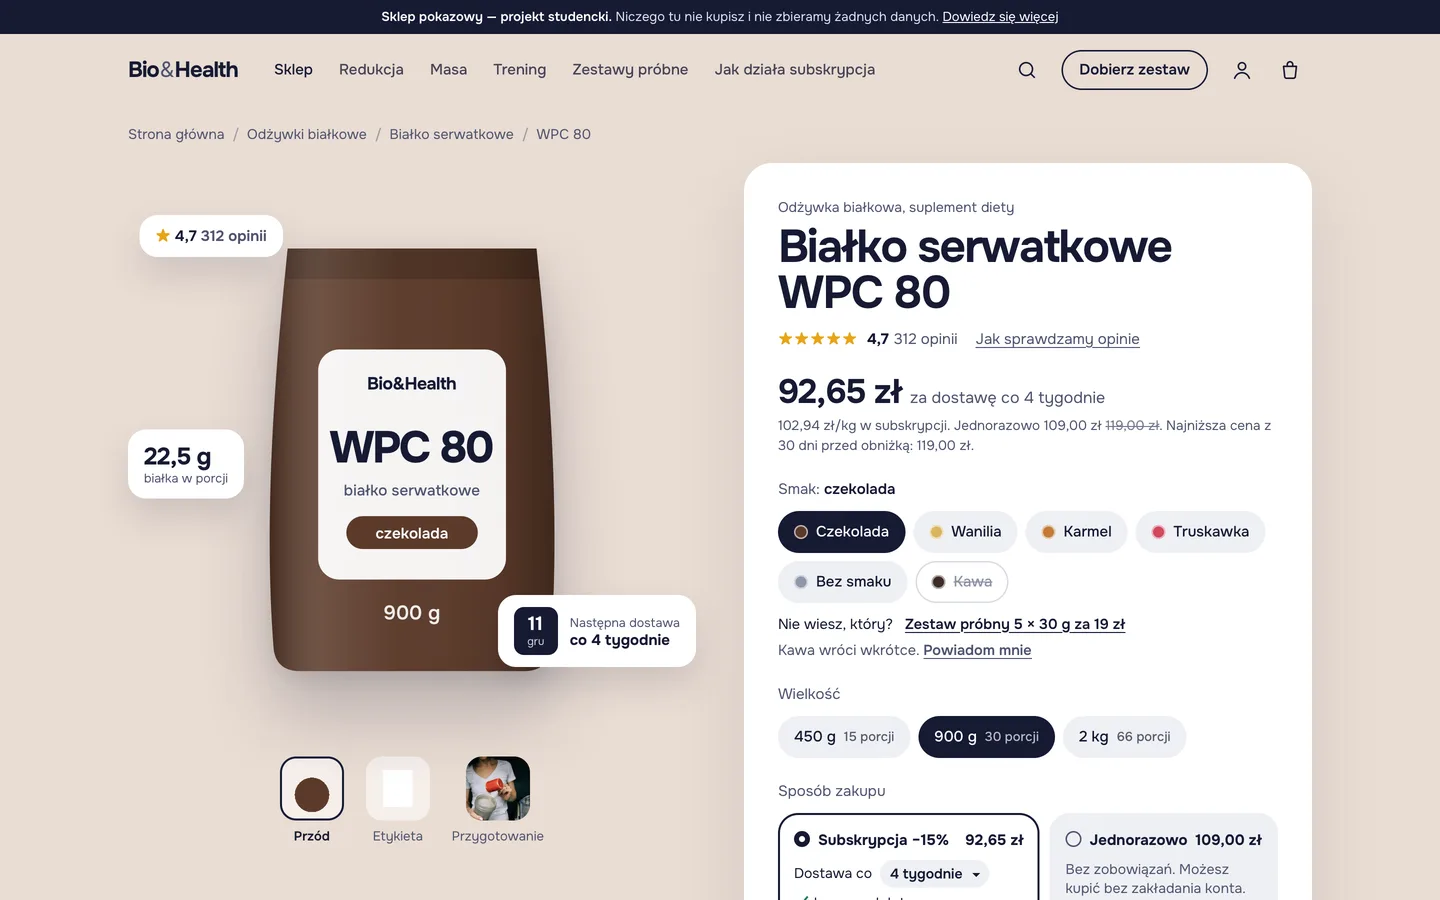
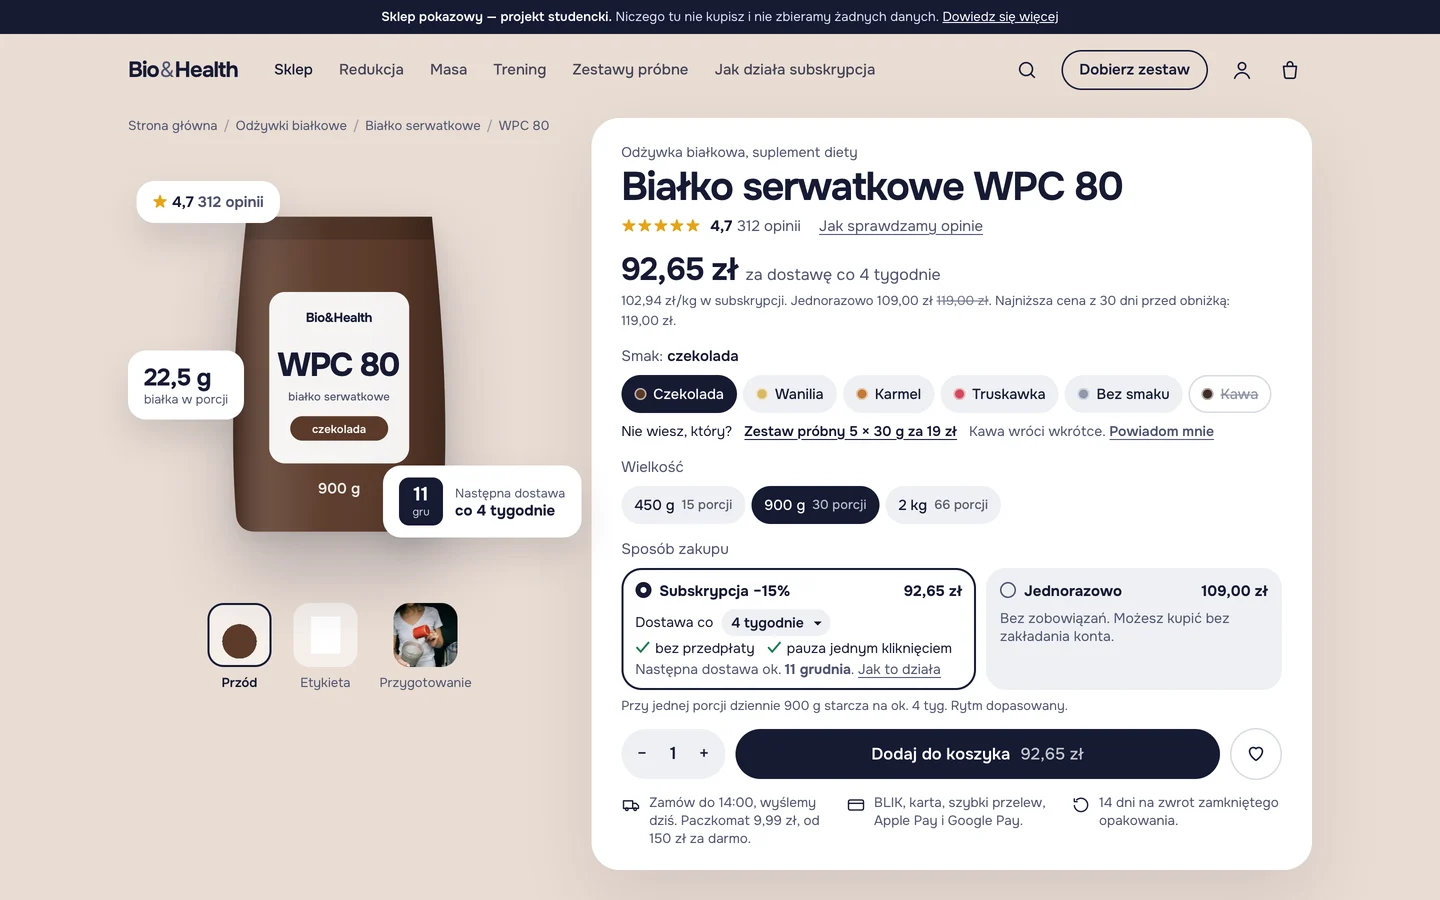
Prezentacja: makieta hi-fi i zrzuty z nowego układu strony
- Nowy zrzut pierwszego ekranu (1440 × 870, wszystko do przycisku
  i dostawa/płatność/zwroty) i dopasowana do niego siatka lo-fi,
  więc przejście lo-fi → hi-fi dalej trafia pole w pole.
- Nowe zrzuty smaków, koszyka, telefonu i sekcji subskrypcji
  (z przesuniętymi obrysami), nowa miniatura lo-fi na tytule.

diff --git a/src/prezentacja.js b/src/prezentacja.js
@@ -10,58 +10,58 @@ const druk = parametry.has('druk');
 const bezRuchu = druk || window.matchMedia('(prefers-reduced-motion: reduce)').matches;
 if (druk) document.documentElement.classList.add('druk');
 
-/* ---------- makieta lo-fi (siatka 1440 × 1240 px, jak pierwszy ekran strony) ---------- */
+/* ---------- makieta lo-fi (siatka 1440 × 870 px = pierwszy ekran strony na laptopie) ---------- */
 // [x, y, szerokość, wysokość, rodzaj, podpis, dodatkowa klasa]
 const LOFI = [
   [0, 0, 1440, 34, 'pasek', 'Pasek informacyjny'],
-  [128, 50, 112, 38, 'ramka', 'Logo'],
-  [274, 56, 602, 26, 'tekst', 'Menu według celu: redukcja, masa, trening, zestawy próbne, subskrypcja'],
+  [128, 53, 110, 34, 'ramka', 'Logo'],
+  [274, 57, 601, 26, 'tekst', 'Menu według celu: redukcja, masa, trening, zestawy próbne, subskrypcja'],
   [1014, 57, 26, 26, 'ikona', ''],
-  [1062, 50, 146, 40, 'pigulka', 'Dobierz zestaw'],
+  [1061, 50, 147, 40, 'pigulka', 'Dobierz zestaw'],
   [1229, 57, 26, 26, 'ikona', ''],
   [1277, 57, 26, 26, 'ikona', ''],
-  [128, 124, 463, 20, 'tekst', 'Ścieżka: strona główna / kategoria / produkt'],
-  [270, 248, 286, 422, 'zdjecie', 'Zdjęcie produktu'],
-  [140, 215, 143, 42, 'plakietka', 'Ocena'],
-  [128, 430, 116, 68, 'plakietka', 'Białko w porcji'],
-  [498, 596, 198, 70, 'plakietka', 'Najbliższa dostawa'],
-  [280, 756, 64, 64, 'zdjecie', ''],
-  [366, 756, 64, 64, 'zdjecie', ''],
-  [466, 756, 64, 64, 'zdjecie', ''],
-  [744, 163, 568, 1077, 'panel', ''],
-  [778, 198, 236, 20, 'tekst', 'Kategoria produktu'],
-  [778, 226, 394, 90, 'naglowek', 'Nazwa produktu'],
-  [778, 329, 180, 20, 'tekst', 'Ocena, opinie'],
-  [976, 329, 164, 20, 'link', 'Jak sprawdzamy'],
-  [778, 370, 124, 44, 'cena', 'Cena'],
-  [910, 386, 196, 22, 'tekst', 'za dostawę co X tyg.'],
-  [778, 418, 494, 34, 'tekst', 'Cena za kg, jednorazowa, najniższa z 30 dni'],
-  [778, 480, 120, 20, 'tekst', 'Smak'],
-  [778, 511, 127, 42, 'pigulka', 'Smak 1', 'wybrany'],
-  [913, 511, 104, 42, 'pigulka', 'Smak 2'],
-  [1026, 511, 101, 42, 'pigulka', 'Smak 3'],
-  [1136, 511, 129, 42, 'pigulka', 'Smak 4'],
-  [778, 561, 129, 42, 'pigulka', 'Smak 5'],
-  [916, 561, 92, 42, 'pigulka', 'Smak 6', 'brak'],
-  [778, 614, 350, 22, 'link', 'Zestaw próbny'],
-  [778, 640, 254, 20, 'tekst', 'Powiadom o smaku'],
-  [778, 684, 84, 20, 'tekst', 'Wielkość'],
-  [778, 716, 132, 42, 'pigulka', 'Wariant 1'],
-  [918, 716, 136, 42, 'pigulka', 'Wariant 2', 'wybrany'],
-  [1063, 716, 123, 42, 'pigulka', 'Wariant 3'],
-  [778, 780, 126, 20, 'tekst', 'Sposób zakupu'],
-  [778, 813, 262, 180, 'karta', 'Subskrypcja: rabat i cena\nDostawa co [rytm]\n✓ bez przedpłaty\n✓ pauza\nNastępna dostawa: data', 'wybrany'],
-  [1049, 813, 229, 180, 'karta', 'Jednorazowo: cena\nBez zobowiązań'],
-  [778, 1002, 464, 20, 'tekst', 'Podpowiedź: na ile starcza opakowanie'],
-  [778, 1043, 103, 52, 'pigulka', '−  ilość  +'],
-  [892, 1043, 323, 52, 'przycisk', 'Dodaj do koszyka: kwota'],
-  [1226, 1043, 52, 52, 'ikona', '♡'],
-  [778, 1116, 460, 40, 'tekst', 'Dostawa: kiedy wyślemy i ile kosztuje'],
-  [778, 1170, 380, 22, 'tekst', 'Płatności: BLIK, karta, przelew'],
-  [778, 1202, 320, 22, 'tekst', 'Zwroty: 14 dni'],
+  [128, 116, 423, 20, 'tekst', 'Ścieżka: strona główna / kategoria / produkt'],
+  [235, 214, 212, 318, 'zdjecie', 'Zdjęcie produktu'],
+  [136, 181, 143, 43, 'plakietka', 'Ocena'],
+  [128, 351, 116, 70, 'plakietka', 'Białko w porcji'],
+  [383, 466, 198, 72, 'plakietka', 'Najbliższa dostawa'],
+  [208, 603, 64, 64, 'zdjecie', ''],
+  [294, 603, 64, 64, 'zdjecie', ''],
+  [394, 603, 64, 64, 'zdjecie', ''],
+  [591, 118, 721, 752, 'panel', ''],
+  [621, 142, 260, 22, 'tekst', 'Kategoria produktu'],
+  [621, 168, 500, 41, 'naglowek', 'Nazwa produktu'],
+  [621, 217, 180, 23, 'tekst', 'Ocena, opinie'],
+  [819, 217, 164, 23, 'link', 'Jak sprawdzamy'],
+  [621, 251, 116, 41, 'cena', 'Cena'],
+  [746, 266, 195, 21, 'tekst', 'za dostawę co X tyg.'],
+  [621, 293, 661, 40, 'tekst', 'Cena za kg, jednorazowa, najniższa z 30 dni'],
+  [621, 347, 118, 23, 'tekst', 'Smak'],
+  [621, 378, 116, 38, 'pigulka', 'Smak 1', 'wybrany'],
+  [743, 378, 94, 38, 'pigulka', 'Smak 2'],
+  [843, 378, 91, 38, 'pigulka', 'Smak 3'],
+  [940, 378, 118, 38, 'pigulka', 'Smak 4'],
+  [1065, 378, 118, 38, 'pigulka', 'Smak 5'],
+  [1189, 378, 83, 38, 'pigulka', 'Smak 6', 'brak'],
+  [621, 424, 336, 22, 'link', 'Nie wiesz, który? Zestaw próbny'],
+  [970, 424, 245, 22, 'tekst', 'Powiadom o smaku'],
+  [621, 459, 84, 23, 'tekst', 'Wielkość'],
+  [621, 490, 124, 38, 'pigulka', 'Wariant 1'],
+  [751, 490, 128, 38, 'pigulka', 'Wariant 2', 'wybrany'],
+  [885, 490, 116, 38, 'pigulka', 'Wariant 3'],
+  [621, 542, 126, 23, 'tekst', 'Sposób zakupu'],
+  [621, 568, 355, 124, 'karta', 'Subskrypcja: rabat i cena\nDostawa co [rytm]\n✓ bez przedpłaty  ✓ pauza\nNastępna dostawa: data', 'wybrany'],
+  [986, 572, 296, 120, 'karta', 'Jednorazowo: cena\nBez zobowiązań'],
+  [621, 698, 460, 20, 'tekst', 'Podpowiedź: na ile starcza opakowanie'],
+  [621, 729, 104, 50, 'pigulka', '−  ilość  +'],
+  [735, 729, 485, 50, 'przycisk', 'Dodaj do koszyka: kwota'],
+  [1230, 728, 52, 52, 'ikona', '♡'],
+  [621, 800, 211, 55, 'tekst', 'Dostawa: kiedy i za ile'],
+  [846, 800, 211, 55, 'tekst', 'Płatności: BLIK, karta'],
+  [1071, 800, 211, 55, 'tekst', 'Zwroty: 14 dni'],
 ];
 const SZER = 1440;
-const WYS = 1240;
+const WYS = 870;
 const procX = (v) => `${(v / SZER) * 100}%`;
 const procY = (v) => `${(v / WYS) * 100}%`;
 function ustawProstokat(el, x, y, w, h) {

diff --git a/prezentacja.html b/prezentacja.html
@@ -276,13 +276,13 @@
             <div class="ramka-przegladarki ramka-makiety">
               <div class="makieta" id="makieta" aria-label="Makieta lo-fi strony produktu">
                 <!-- szare pola rysuje skrypt (dane w src/prezentacja.js) -->
-                <span class="znacznik" data-krok="1" data-do="7" data-x="1135" data-y="112">1</span>
-                <span class="znacznik" data-krok="2" data-do="7" data-x="722" data-y="339">2</span>
-                <span class="znacznik" data-krok="3" data-do="7" data-x="722" data-y="400">3</span>
-                <span class="znacznik" data-krok="4" data-do="7" data-x="722" data-y="540">4</span>
-                <span class="znacznik" data-krok="5" data-do="7" data-x="722" data-y="880">5</span>
-                <span class="znacznik" data-krok="6" data-do="7" data-x="722" data-y="1100">6</span>
-                <span class="znacznik" data-krok="7" data-do="7" data-x="726" data-y="631">7</span>
+                <span class="znacznik" data-krok="1" data-do="7" data-x="1135" data-y="124">1</span>
+                <span class="znacznik" data-krok="2" data-do="7" data-x="585" data-y="228">2</span>
+                <span class="znacznik" data-krok="3" data-do="7" data-x="585" data-y="272">3</span>
+                <span class="znacznik" data-krok="4" data-do="7" data-x="585" data-y="397">4</span>
+                <span class="znacznik" data-krok="5" data-do="7" data-x="585" data-y="630">5</span>
+                <span class="znacznik" data-krok="6" data-do="7" data-x="585" data-y="754">6</span>
+                <span class="znacznik" data-krok="7" data-do="7" data-x="585" data-y="502">7</span>
                 <div class="przemiana" data-krok="8" data-anim="przemiana">
                   <img class="hifi-pelna" src="/prezentacja/hifi_pierwszy_ekran.webp" alt="Makieta hi-fi tego samego ekranu" />
                 </div>
@@ -350,9 +350,9 @@
             <div class="ramka-przegladarki ramka-ciemna">
               <div class="z-obrysami">
                 <img src="/prezentacja/hifi_subskrypcja.webp" alt="Sekcja subskrypcji: wybór rytmu, przycisk Wstrzymaj na styczeń, oś dostaw i trzy kroki" />
-                <span class="obrys obrys--jasny" data-krok="1" data-x="1.5" data-y="44.8" data-w="96" data-h="17.5"></span>
-                <span class="obrys obrys--jasny" data-krok="2" data-x="34.8" data-y="35" data-w="19.3" data-h="8.5"></span>
-                <span class="obrys obrys--jasny" data-krok="3" data-x="66.6" data-y="78" data-w="32" data-h="20"></span>
+                <span class="obrys obrys--jasny" data-krok="1" data-x="1.6" data-y="42.8" data-w="96.8" data-h="21.2"></span>
+                <span class="obrys obrys--jasny" data-krok="2" data-x="35.7" data-y="32.1" data-w="18.4" data-h="9.5"></span>
+                <span class="obrys obrys--jasny" data-krok="3" data-x="67.3" data-y="76" data-w="31.3" data-h="18"></span>
               </div>
             </div>
           </div>

diff --git a/src/prezentacja.css b/src/prezentacja.css
@@ -191,21 +191,21 @@ figcaption { font-size: 23px; line-height: 1.3; font-weight: 560; display: flex;
 .slajd:has(.bilans) .wniosek { bottom: 70px; }
 
 /* 10. makieta lo-fi → hi-fi */
-.slajd--makieta { padding: 72px 110px 60px; background: #f4f4f2; }
+.slajd--makieta { padding: 72px 90px 60px; background: #f4f4f2; }
 .slajd--makieta::before {
   content: ''; position: absolute; inset: 0;
   background-image: radial-gradient(#cfcfca 1.4px, transparent 1.6px); background-size: 26px 26px;
 }
 .tlo-czekolada-warstwa { position: absolute; inset: 0; background: var(--czek-pole); }
-.makieta-uklad { position: relative; display: grid; grid-template-columns: 1040px 1fr; gap: 64px; height: 100%; align-items: center; }
+.makieta-uklad { position: relative; display: grid; grid-template-columns: 1180px 1fr; gap: 52px; height: 100%; align-items: center; }
 .ramka-przegladarki { position: relative; border-radius: 20px; overflow: hidden; padding-top: 34px; background: #e6e6e3; box-shadow: 0 30px 80px rgba(22,26,51,.18), 0 0 0 1px rgba(22,26,51,.08); }
 .ramka-przegladarki::before { content: ''; position: absolute; top: 12px; left: 18px; width: 10px; height: 10px; border-radius: 50%; background: #bdbdb8; box-shadow: 18px 0 0 #bdbdb8, 36px 0 0 #bdbdb8; }
-.makieta { position: relative; aspect-ratio: 1440 / 1240; background: #fff; overflow: hidden; }
+.makieta { position: relative; aspect-ratio: 1440 / 870; background: #fff; overflow: hidden; }
 
 /* elementy lo-fi (pozycje w % liczy skrypt z siatki 1440 × 1240) */
 .lf {
   position: absolute; display: flex; align-items: center; justify-content: center; text-align: center;
-  font-size: 11px; line-height: 1.15; color: #6c6c6c; font-weight: 500; padding: 0 4px; overflow: hidden; white-space: nowrap;
+  font-size: 11.5px; line-height: 1.15; color: #6c6c6c; font-weight: 500; padding: 0 4px; overflow: hidden; white-space: nowrap;
 }
 .lf-pasek { background: #cfcfcf; color: #555; justify-content: center; }
 .lf-ramka { border: 1.5px solid #8f8f8f; border-radius: 4px; }
@@ -237,9 +237,9 @@ figcaption { font-size: 23px; line-height: 1.3; font-weight: 560; display: flex;
 .hifi-pelna { position: absolute; inset: 0; width: 100%; height: 100%; }
 
 .makieta-opis { position: relative; align-self: stretch; display: grid; align-content: center; }
-.makieta-opis .sredni { font-size: 54px; }
+.makieta-opis .sredni { font-size: 50px; }
 .makieta-opis .metka { color: var(--czek); }
-.adnotacje { margin-top: 30px; display: grid; gap: 15px; font-size: 24px; line-height: 1.3; counter-reset: a; }
+.adnotacje { margin-top: 26px; display: grid; gap: 14px; font-size: 22.5px; line-height: 1.3; counter-reset: a; }
 .adnotacje li { counter-increment: a; padding-left: 52px; position: relative; }
 .adnotacje li::before {
   content: counter(a); position: absolute; left: 0; top: -1px; width: 36px; height: 36px; border-radius: 50%;
